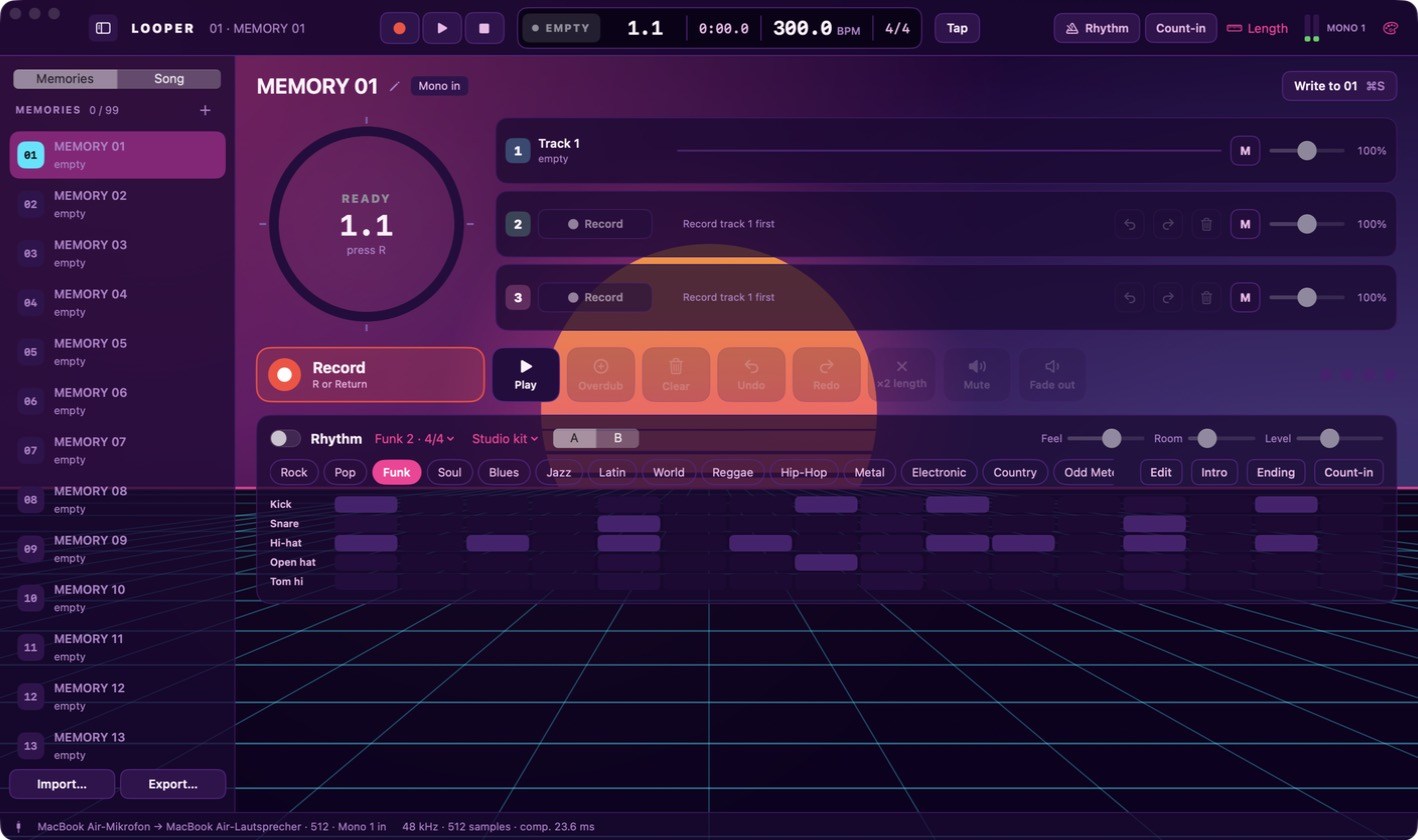
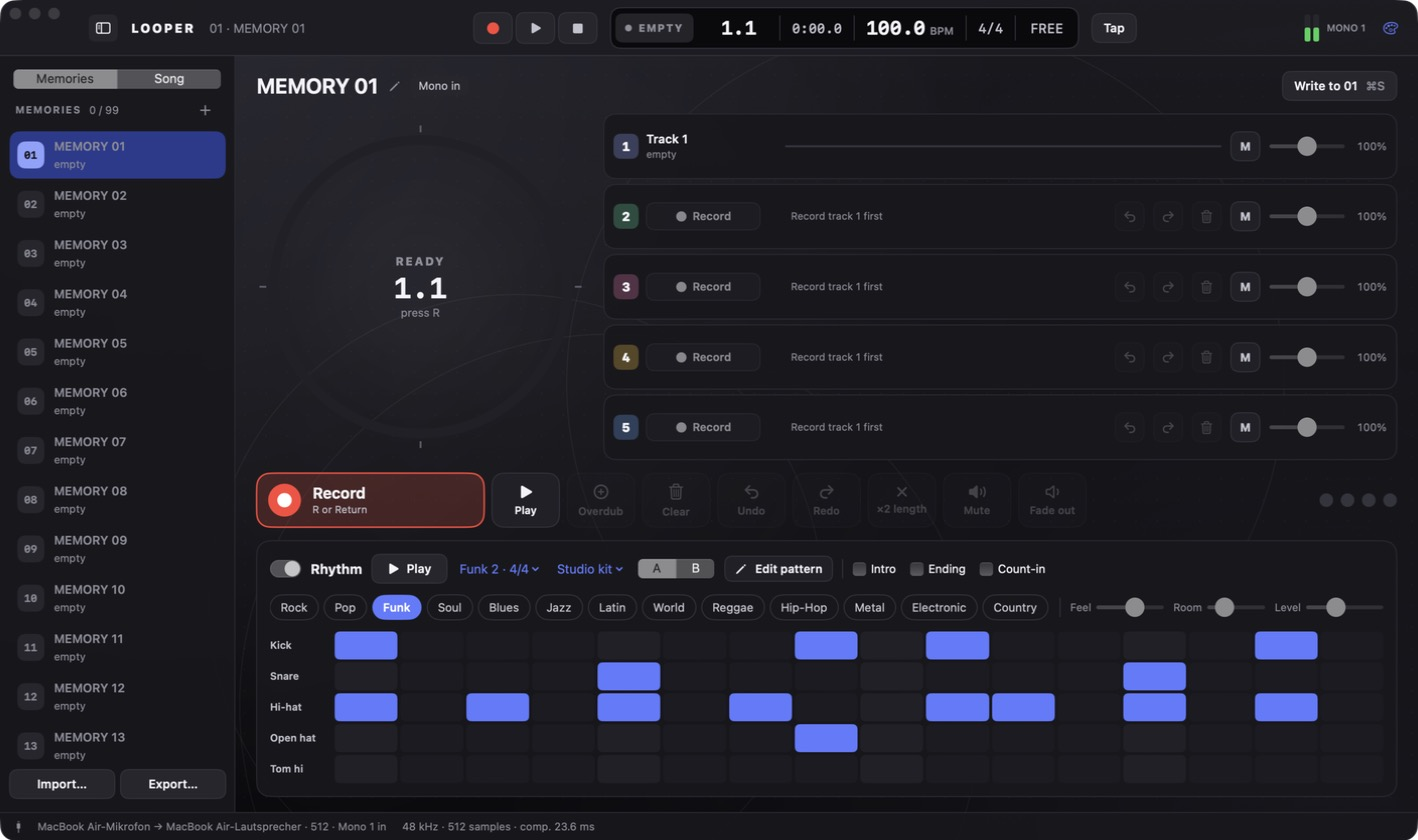
README for 2.0.2 with a new Graphite screenshot
Claude-Session: https://claude.ai/code/session_01T7upPLJHWPxKhoccWAX6Jr

diff --git a/README.md b/README.md
@@ -66,10 +66,10 @@ Looper turns your Mac and an audio interface into a loop station. Record a phras
 
 ## Getting started
 
-1. **Download** `Looper-2.0-arm64.zip` (Apple silicon) or `Looper-2.0-x86_64.zip` (Intel) from the [latest release](https://github.com/lydianb79/RC5-Looper/releases/latest), or **build the apps** yourself (see [Build it yourself](#build-it-yourself)), and open **Looper (arm64).app** on Apple silicon or **Looper (x86_64).app** on an Intel Mac. The apps are ad-hoc signed: the first time, right-click → **Open**.
+1. **Download** `Looper-2.0.2-arm64.zip` (Apple silicon) or `Looper-2.0.2-x86_64.zip` (Intel) from the [latest release](https://github.com/lydianb79/RC5-Looper/releases/latest), or **build the apps** yourself (see [Build it yourself](#build-it-yourself)), and open **Looper (arm64).app** on Apple silicon or **Looper (x86_64).app** on an Intel Mac. The apps are ad-hoc signed: the first time, right-click → **Open**.
 2. Allow **microphone access** when macOS asks.
 3. Open **Settings › Audio** (⌘,) and choose your interface, mono or stereo input, the output pair and the buffer size. Use headphones or monitors – the built-in mic and speakers feed back into the loop.
-4. Optional: switch the **Rhythm** on and pick a style, or turn on **Count-in**.
+4. Optional: switch the **Rhythm** on (the switch in the rhythm panel) and pick a style, tick **Count-in**, or click **FREE** in the display to set a fixed loop length.
 5. Press **R** (or click **Record**) and play. Press **R** again to close the loop – it plays (or goes straight into overdub, depending on *Rec action*).
 6. Press **R** to overdub, **Space** to stop and start, **⌘Z** to undo, **2**–**5** to record tracks 2–5.
 7. **⌘S** writes everything into the current memory.
